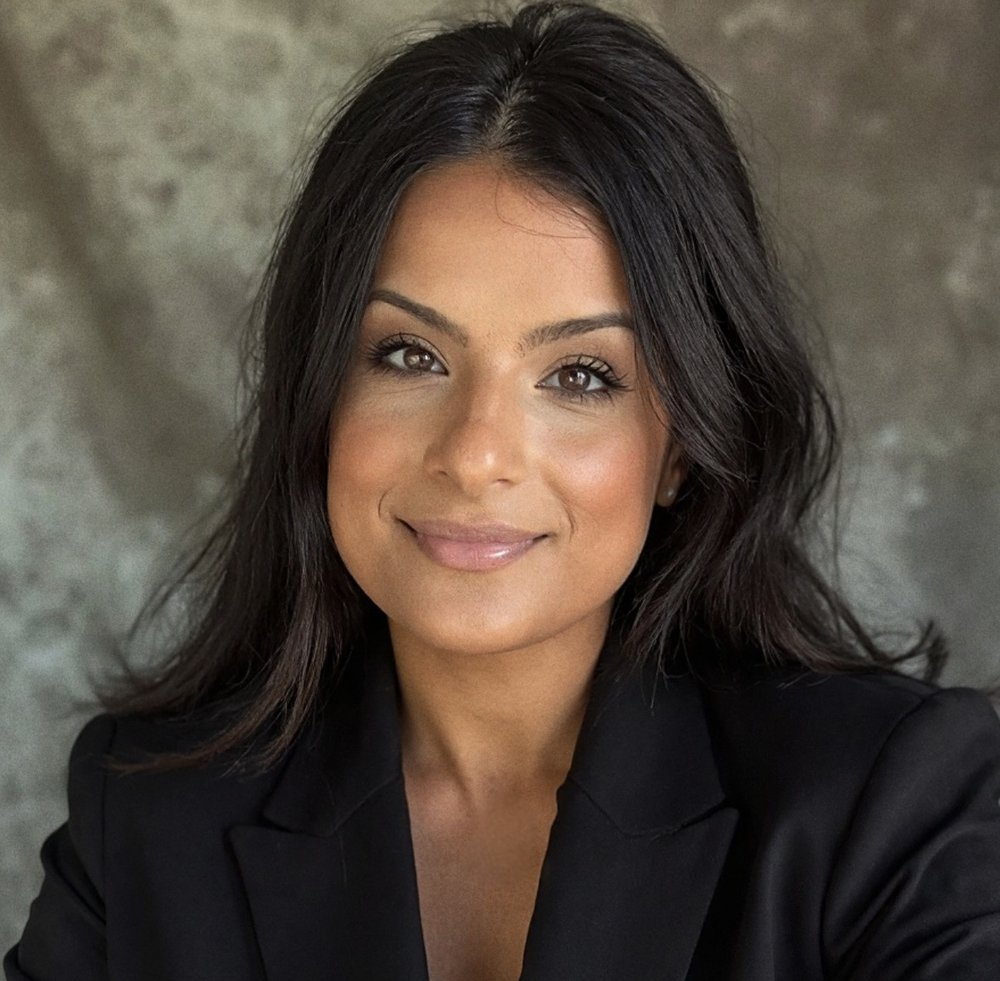
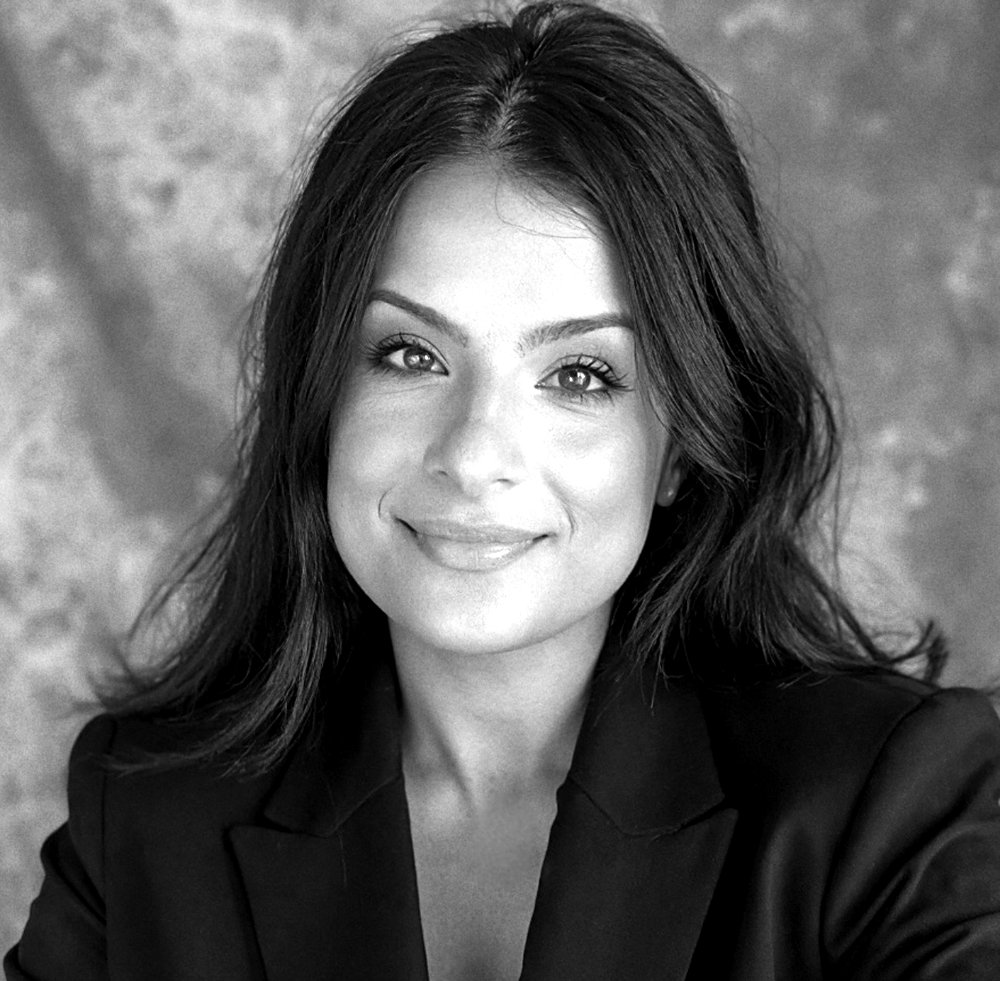
Sheri page: B&W headshot and Off the clock photo wall
- Headshot converted to black and white (colour original kept as sheri-color.jpg)
- Off the clock is now a full-width band: two rows of family photos drift
  behind a dark gradient, new copy on top; motion off for reduced-motion users

Claude-Session: https://claude.ai/code/session_015MdjaVsAL465oTUA7tcLVm

diff --git a/about/sheri.html b/about/sheri.html
@@ -158,17 +158,27 @@
         </div>
       </div>
 
-      <div class="pp-body rv">
-        <div><p class="eyebrow" style="margin-left:0">Off the clock</p></div>
-        <div>
-          <p>Lives in Port Moody with Dawar, their three kids and Bear, a white Samoyed.</p>
-          <div class="pp-actions">
-            <a class="fill" href="/portmoodymarket#newsletter">Get the monthly report</a>
-            <a href="mailto:sheri@zadagroup.ca">sheri@zadagroup.ca</a>
-          </div>
+
+    </div>
+  </section>
+
+  <section class="pp-life" aria-labelledby="life-h">
+    <div class="pp-life__wall" aria-hidden="false">
+      <div class="pp-life__row"><img src="/assets/images/life/life-board.jpg" alt="A Halloween charcuterie board with a cheese ghost face, mummy brie and a skeleton in a coffin of prosciutto" loading="lazy" /><img src="/assets/images/life/life-cookies.jpg" alt="Iced ghost and jack-o-lantern sugar cookies" loading="lazy" /><img src="/assets/images/life/life-family.jpg" alt="Sheri with her three kids and Bear on a forest boardwalk" loading="lazy" /><img src="/assets/images/life/life-bento.jpg" alt="A Halloween lunch box with a spider web sandwich, cheese broomsticks and a mummy" loading="lazy" /><img src="/assets/images/life/life-waffles.jpg" alt="Bunny waffles with raspberries" loading="lazy" /><img src="/assets/images/life/life-bear.jpg" alt="Bear the Samoyed on a lit suspension bridge" loading="lazy" /><img src="/assets/images/life/life-lunch.jpg" alt="A Mario lunch box with star-shaped mango" loading="lazy" /><img src="/assets/images/life/life-board.jpg" alt="" aria-hidden="true" loading="lazy" /><img src="/assets/images/life/life-cookies.jpg" alt="" aria-hidden="true" loading="lazy" /><img src="/assets/images/life/life-family.jpg" alt="" aria-hidden="true" loading="lazy" /><img src="/assets/images/life/life-bento.jpg" alt="" aria-hidden="true" loading="lazy" /><img src="/assets/images/life/life-waffles.jpg" alt="" aria-hidden="true" loading="lazy" /><img src="/assets/images/life/life-bear.jpg" alt="" aria-hidden="true" loading="lazy" /><img src="/assets/images/life/life-lunch.jpg" alt="" aria-hidden="true" loading="lazy" /></div>
+      <div class="pp-life__row pp-life__row--rev"><img src="/assets/images/life/life-bento.jpg" alt="A Halloween lunch box with a spider web sandwich, cheese broomsticks and a mummy" loading="lazy" /><img src="/assets/images/life/life-waffles.jpg" alt="Bunny waffles with raspberries" loading="lazy" /><img src="/assets/images/life/life-bear.jpg" alt="Bear the Samoyed on a lit suspension bridge" loading="lazy" /><img src="/assets/images/life/life-lunch.jpg" alt="A Mario lunch box with star-shaped mango" loading="lazy" /><img src="/assets/images/life/life-board.jpg" alt="A Halloween charcuterie board with a cheese ghost face, mummy brie and a skeleton in a coffin of prosciutto" loading="lazy" /><img src="/assets/images/life/life-cookies.jpg" alt="Iced ghost and jack-o-lantern sugar cookies" loading="lazy" /><img src="/assets/images/life/life-family.jpg" alt="Sheri with her three kids and Bear on a forest boardwalk" loading="lazy" /><img src="/assets/images/life/life-bento.jpg" alt="" aria-hidden="true" loading="lazy" /><img src="/assets/images/life/life-waffles.jpg" alt="" aria-hidden="true" loading="lazy" /><img src="/assets/images/life/life-bear.jpg" alt="" aria-hidden="true" loading="lazy" /><img src="/assets/images/life/life-lunch.jpg" alt="" aria-hidden="true" loading="lazy" /><img src="/assets/images/life/life-board.jpg" alt="" aria-hidden="true" loading="lazy" /><img src="/assets/images/life/life-cookies.jpg" alt="" aria-hidden="true" loading="lazy" /><img src="/assets/images/life/life-family.jpg" alt="" aria-hidden="true" loading="lazy" /></div>
+    </div>
+    <div class="pp-life__shade" aria-hidden="true"></div>
+    <div class="wrap pp-life__inner">
+      <div class="pp-life__text rv">
+        <p class="eyebrow" style="margin-left:0">Off the clock</p>
+        <h2 id="life-h">The best childhoods are <em>full of magic</em></h2>
+        <p>Sheri is a full-time mom who believes the best childhoods are the ones filled with magic. You can catch her cutting cheese into ghosts at all hours of the night, turning breakfast into bunnies, and packing lunches that look like spider webs.</p>
+        <p>She lives in Port Moody with Dawar, their three kids and Bear, a white Samoyed who has never once been left out of a family photo.</p>
+        <div class="pp-actions">
+          <a class="fill" href="/portmoodymarket#newsletter">Get the monthly report</a>
+          <a href="mailto:sheri@zadagroup.ca">sheri@zadagroup.ca</a>
         </div>
       </div>
-
     </div>
   </section>
 

diff --git a/assets/css/editorial.css b/assets/css/editorial.css
@@ -386,3 +386,29 @@ body.pmr-body .nav.scrolled { background: rgba(7, 8, 10, 0.94); }
   .pp-body { grid-template-columns: 1fr; gap: 10px; }
   .pp-not { padding: 26px 22px; }
 }
+
+/* ---------- Off the clock: drifting photo wall ---------- */
+.pp-life { position: relative; overflow: hidden; background: #0b0c0e; min-height: 640px; display: flex; align-items: center; border-top: 1px solid var(--line); }
+.pp-life__wall { position: absolute; inset: -20px 0; display: flex; flex-direction: column; gap: 14px; justify-content: center; transform: rotate(-3deg) scale(1.08); }
+.pp-life__row { display: flex; gap: 14px; width: max-content; animation: pp-drift 90s linear infinite; }
+.pp-life__row--rev { animation-direction: reverse; animation-duration: 110s; }
+.pp-life__row img { height: 300px; width: auto; max-width: none; object-fit: cover; display: block; filter: saturate(0.9) brightness(0.92); }
+@keyframes pp-drift { from { transform: translateX(0); } to { transform: translateX(-50%); } }
+.pp-life__shade {
+  position: absolute; inset: 0; pointer-events: none;
+  background:
+    linear-gradient(90deg, rgba(11,12,14,0.97) 0%, rgba(11,12,14,0.9) 34%, rgba(11,12,14,0.45) 62%, rgba(11,12,14,0.15) 100%),
+    linear-gradient(180deg, #0b0c0e 0%, rgba(11,12,14,0) 18%, rgba(11,12,14,0) 82%, #0b0c0e 100%);
+}
+.pmr .pp-life__inner { position: relative; z-index: 2; width: 100%; padding-top: 110px; padding-bottom: 110px; }
+.pp-life__text { max-width: 520px; }
+.pp-life__text h2 { margin-bottom: 1.2rem; }
+.pmr .pp-life__text p { color: rgba(236,232,226,0.86); }
+@media (prefers-reduced-motion: reduce) { .pp-life__row { animation: none; } }
+@media (max-width: 860px) {
+  .pp-life { min-height: 0; align-items: flex-end; }
+  .pp-life__wall { inset: 0 0 auto 0; height: 440px; justify-content: flex-start; padding-top: 10px; transform: none; }
+  .pp-life__row img { height: 200px; }
+  .pp-life__shade { background: linear-gradient(180deg, rgba(11,12,14,0.2) 0%, rgba(11,12,14,0.35) 180px, rgba(11,12,14,0.92) 360px, #0b0c0e 440px); }
+  .pmr .pp-life__inner { padding-top: 300px; padding-bottom: 80px; }
+}
